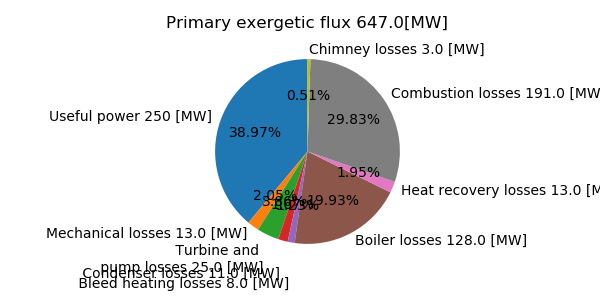
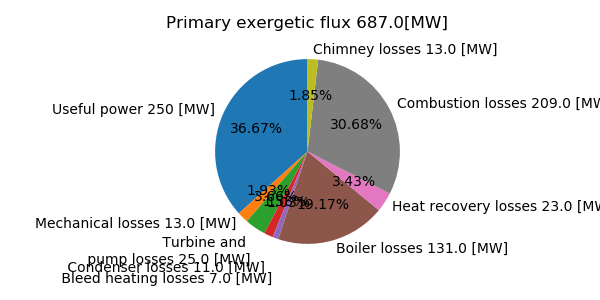
here

diff --git a/ST_feed_and_reheat_multi.py b/ST_feed_and_reheat_multi.py
@@ -15,7 +15,7 @@ from boiler import boiler
 import matplotlib.pyplot as plt
 from pyXSteam.XSteam import XSteam # see documentation here: https://pypi.org/project/pyXSteam/
 
-import ST_drum_test as drum
+import ST_drum1 as drum
 
 def psychrometrics(Tdb,absolute_humidity):
     """
@@ -73,6 +73,7 @@ def ST(ST_inputs):
      """
     steamTable = XSteam(XSteam.UNIT_SYSTEM_MKS); # m/kg/sec/°C/bar/W
     arg_in = ST_inputs;
+
     if arg_in.drumFlag ==1 :
         return drum.ST(ST_inputs)
     fig3,ax3 = plt.subplots()
@@ -136,10 +137,10 @@ def ST(ST_inputs):
 
     TpinchSub = arg_in.TpinchSub;
     if TpinchSub ==-1.:
-        TpinchSub = 10;#delta K
+        TpinchSub = 5;#delta K
     TpinchEx = arg_in.TpinchEx;
     if TpinchEx ==-1.:
-        TpinchEx = 10;#delta K
+        TpinchEx = 5;#delta K
     TpinchCond = arg_in.TpinchCond;
     if TpinchCond ==-1.:
         TpinchCond = 5;#delta K
@@ -290,7 +291,7 @@ def ST(ST_inputs):
     h62= h_pre-(h_pre-h6s)*eta_SiT
     x6=x6
     h6 = x6*steamTable.hV_p(p6)+(1-x6)*steamTable.hL_p(p6)
-    
+
     s6 = steamTable.s_ph(p6,h6)
     s62 = x6*steamTable.sV_p(p6)+(1-x6)*steamTable.sL_p(p6)
     T6 = steamTable.t_ph(p6,h6)+273.15#K
@@ -452,7 +453,7 @@ def ST(ST_inputs):
         if(T10i[-1]>steamTable.tsat_p(p10)+273.15):
             print('vapor formed before the activation pump, increase pressure at alimentation pump p10')
 
-        # print('Solutions',T101,X_bleedings,sum(X_bleedings))
+        print('Solutions',T101,X_bleedings,sum(X_bleedings))
         # print(T10i)
         # print(steamTable.tsat_p(p10)+273.15)
 
@@ -471,11 +472,11 @@ def ST(ST_inputs):
 
         #échange de chaleur isobare entre 8 et 9 + vanne
 
-        T89 = np.linspace(T91,T8i[0],100)
+        T89 = np.linspace(T91-273.15,T8i[0]-273.15,100)
         S89 = np.zeros(100)
         for i in range(100):
             S89[i] = steamTable.s_pt(p8i[0],T89[i])
-        ax3.plot(S89,T89,'--k')
+        ax3.plot(S89,T89,'--c')
 
         #vanne
         P97 = np.linspace(p7,p91,100)
@@ -485,7 +486,7 @@ def ST(ST_inputs):
             S97[i] = steamTable.s_ph(P97[i],h91)
             T97[i] = steamTable.t_ph(P97[i],h91)
 
-        ax3.plot(S97,T97,'--k')
+        ax3.plot(S97,T97,'--c')
 
 
 
@@ -710,11 +711,11 @@ def ST(ST_inputs):
     outputs.combustion.fum =np.array([boiler_outputs.m_O2f,boiler_outputs.m_N2f,boiler_outputs.m_CO2f,boiler_outputs.m_H2Of])*mf
 
     #heat recovery
-    outputs.HR.T_hot_in = boiler_outputs.T_hot_in
-    outputs.HR.T_hot_out = boiler_outputs.T_hot_out
-    outputs.HR.T_cold_in = boiler_outputs.T_cold_in
-    outputs.HR.T_cold_out = boiler_outputs.T_cold_out
-    outputs.HR.T_dew = boiler_outputs.T_dew
+    # outputs.HR.T_hot_in = boiler_outputs.T_hot_in
+    # outputs.HR.T_hot_out = boiler_outputs.T_hot_out
+    # outputs.HR.T_cold_in = boiler_outputs.T_cold_in
+    # outputs.HR.T_cold_out = boiler_outputs.T_cold_out
+    # outputs.HR.T_dew = boiler_outputs.T_dew
 
     """
     18) Pie charts
@@ -809,7 +810,7 @@ def ST(ST_inputs):
     ax3.legend()
 
 
-    fig = [fig,fig2]
+    fig = [fig,fig2,fig3]
     outputs.fig = fig
     if (ST_inputs.DISPLAY == 1):
         plt.show()
@@ -821,11 +822,15 @@ def ST(ST_inputs):
 ST_inputs = ST_arg.ST_inputs();
 ST_inputs.Pe = 250.0e3 #[kW]
 ST_inputs.DISPLAY = 1
-ST_inputs.nsout = 7
+ST_inputs.nsout = 5
 ST_inputs.reheat = 3
+ST_inputs.TpinchEx = 15
+ST_inputs.TpinchSub = 15
 ST_inputs.p3_hp=100
 ST_inputs.p4 = 30
-ST_inputs.Tdrum = 160
-ST_inputs.drumFlag = 0
+ST_inputs.Tdrum = 140
+ST_inputs.drumFlag = 1
 answers = ST(ST_inputs);
 print(answers.Xmassflow)
+print(answers.massflow[2])
+print(answers.combustion.fum)

diff --git a/ST_drum1.py b/ST_drum1.py
@@ -610,6 +610,7 @@ def ST(ST_inputs):
     #state 91
     T91 = T10+TpinchSub #K
     h91 = steamTable.h_pt(p8i[0],T91-273.15)
+
     s91 = steamTable.s_pt(p8i[0],T91-273.15)
     p91 = p8i[0]
     x91 = None
@@ -617,10 +618,12 @@ def ST(ST_inputs):
 
     #échange de chaleur isobare entre 8 et 9 + vanne
 
-    T89 = np.linspace(T91,T8i[0],100)
+    T89 = np.linspace(T91-273.15,T8i[0]-273.1,100)
     S89 = np.zeros(100)
     for i in range(100):
+
         S89[i] = steamTable.s_pt(p8i[0],T89[i])
+        
     ax3.plot(S89,T89,'--c')
 
     #vanne
@@ -640,6 +643,7 @@ def ST(ST_inputs):
 
     #state 101
     h101 = steamTable.h_pt(p10,T101-273.15)
+
     s101 = steamTable.s_pt(p10,T101-273.15)
     p101 = p10
     x101 = None
@@ -984,7 +988,7 @@ def ST(ST_inputs):
     ax3.set_title('T S graph of the steam turbine cycle')
     ax3.legend()
 
-    fig = [fig,fig2]
+    fig = [fig,fig2,fig3]
     outputs.fig = fig
     if (ST_inputs.DISPLAY == 1):
         plt.show()
